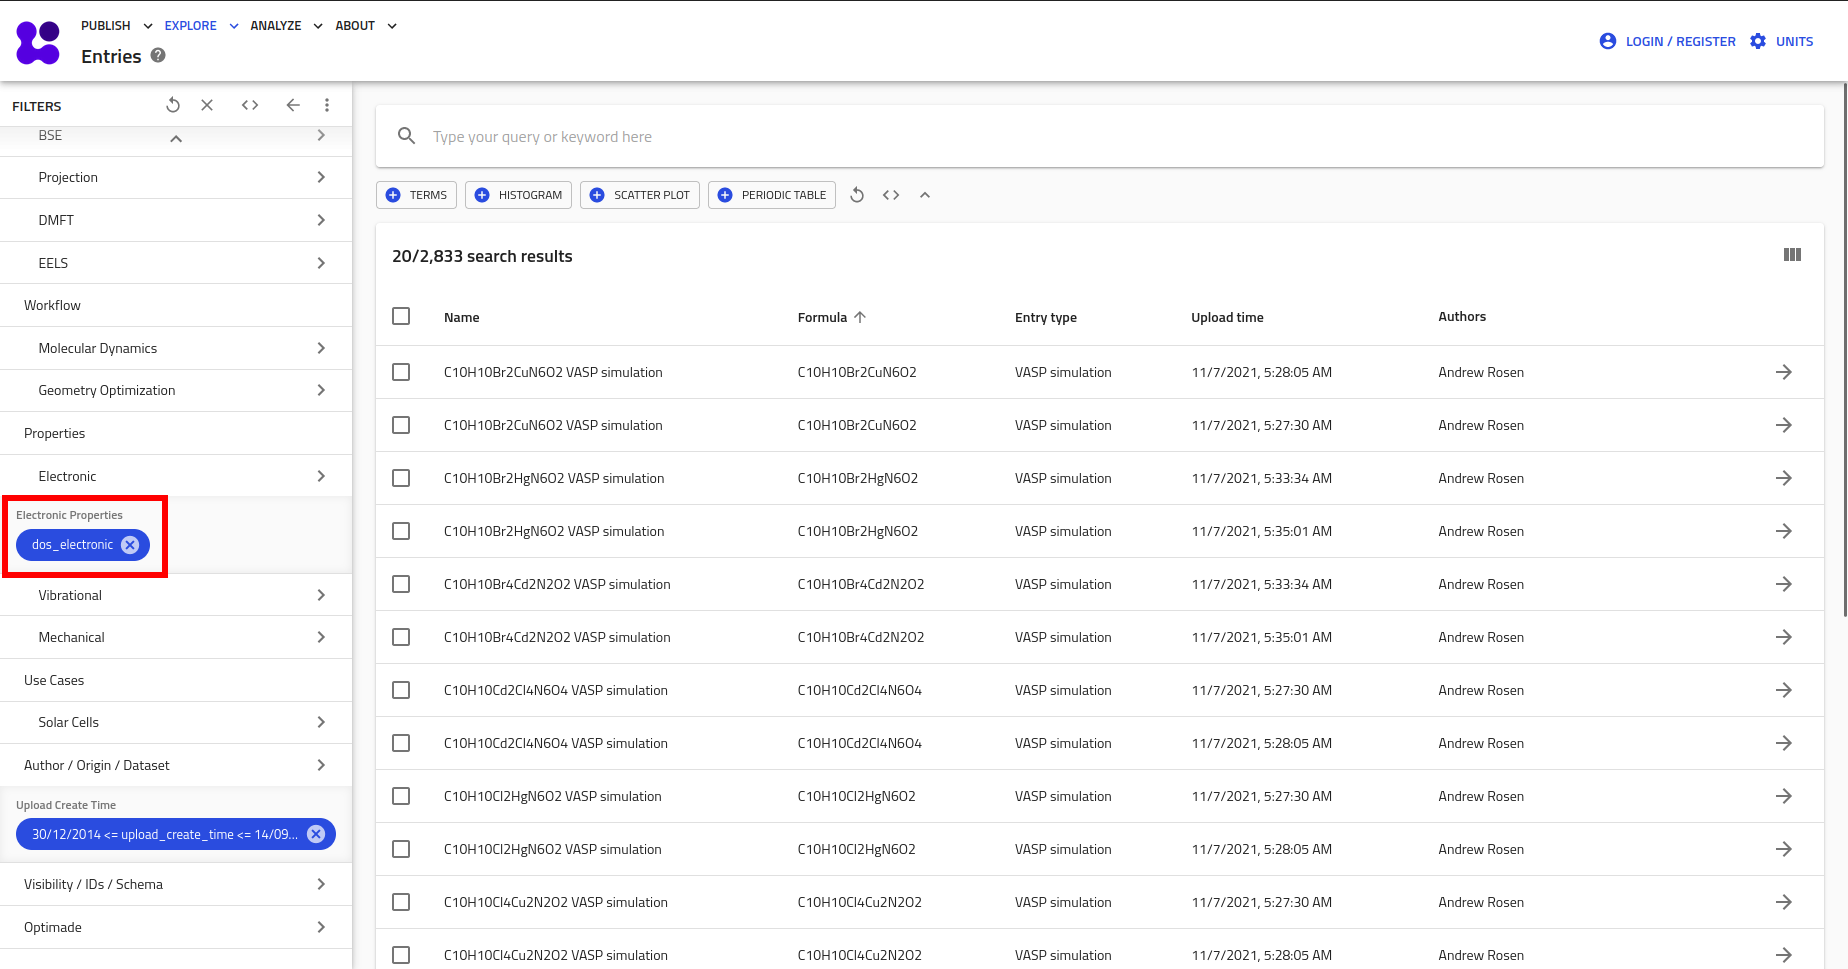
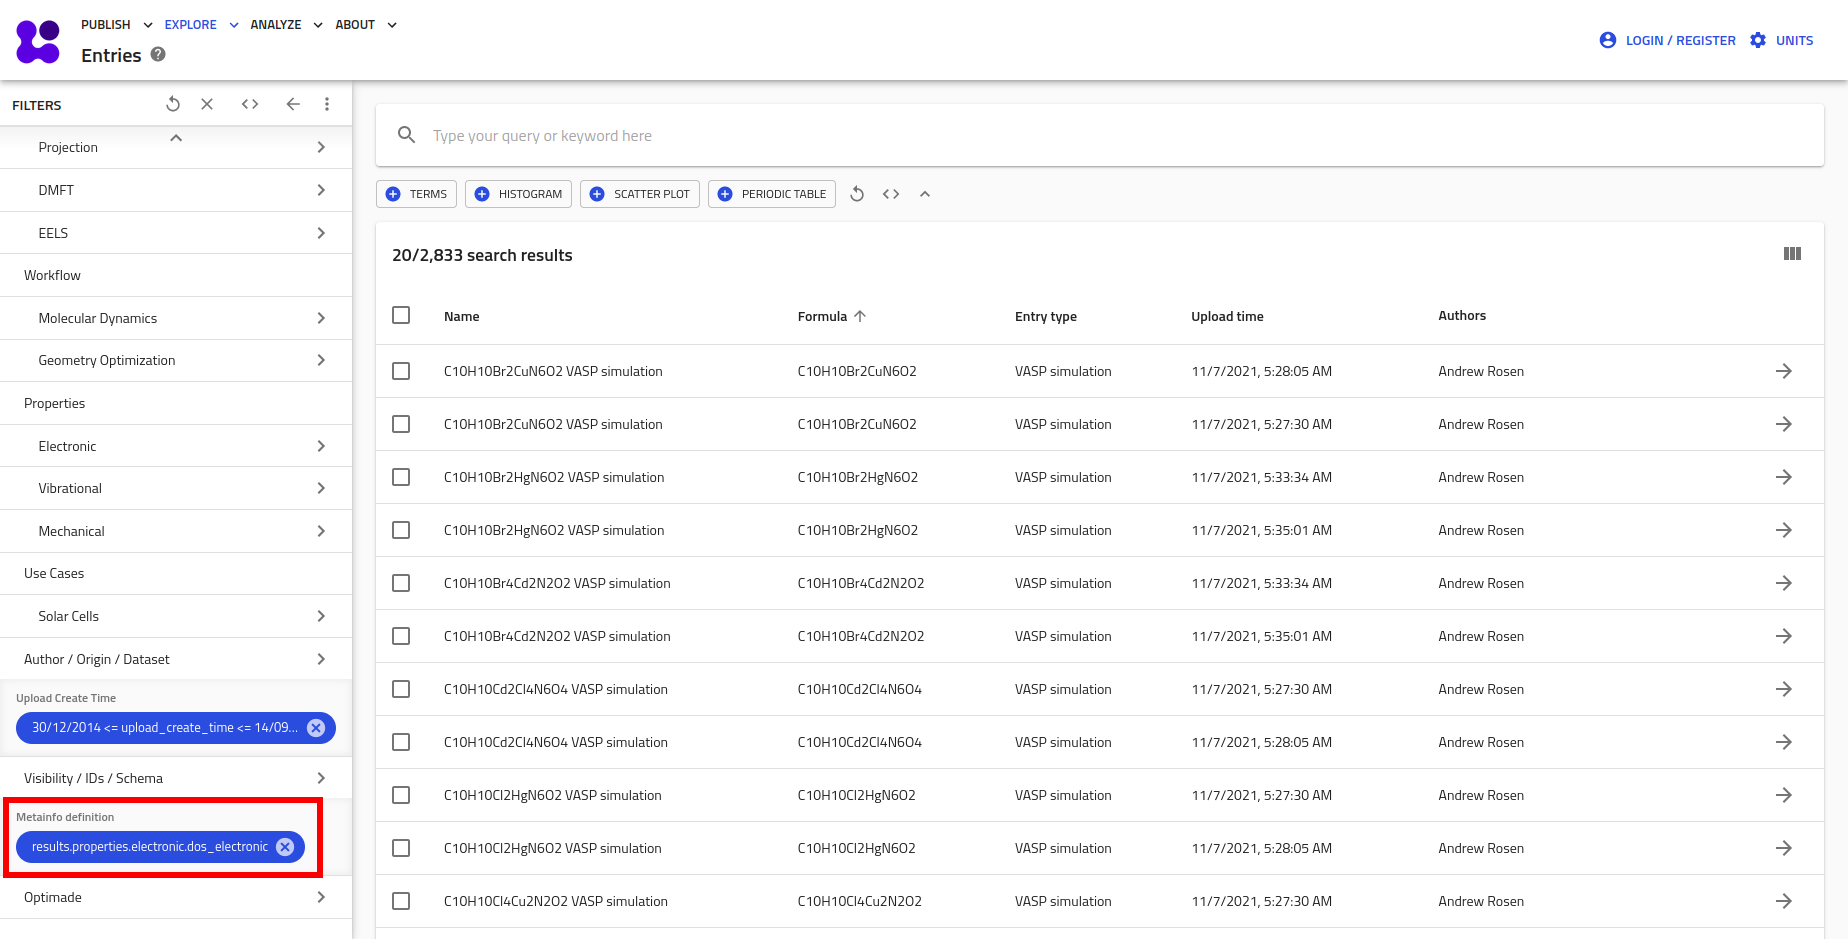
Finish update to scenario 2

diff --git a/docs/part1.md b/docs/part1.md
@@ -205,6 +205,13 @@ Let's go back to when we were selecting the relevant option under the Molecular 
         </label>
     </div>
 
+    **To save** your active filters and settings for later use, you can simply **bookmark the URL**.
+    We will also provide a _solution button_ at the end of each exercise.
+
+    <center>
+    [Final solution](){ .md-button }
+    </center>
+
 <!-- placeholder note for Joseph option A -->
 ???+ info
 
@@ -465,27 +472,38 @@ This filter stack is too restrictive.
 To work around this, remove the last filter and let us go with an alternative.
 Formulate a presence query for the density of states, commonly abbreviated as DOS [^2].
 
+[^2]: The DOS are the solid-state counterpart of the molecular orbital energies. If its sampling extends beyond the HOMO -in solid state, the highest filled energy level is called the Fermi level- it can be used to compute the band gap. This is the case in most simulations.
+
 ??? success
     Your query should be `results.properties.electronic.dos_electronic=*` and return 2.833 entries.
     There is no need to narrow it down to spin-polarized calculations.
     We also accept spin-restricted data.
 
-    [solutiuon link](https://nomad-lab.eu/prod/v1/staging/gui/search/entries?structural_type=bulk&n_elements[gte]=5&n_elements[lte]=6&xc_functional_names=HYB_GGA_XC_HSE03&xc_functional_names=HYB_GGA_XC_HSE06&upload_create_time[gte]=1419895487748&upload_create_time[lte]=1694679900000&quantities=results.properties.electronic.dos_electronic&elements=C&elements=H&elements=O&elements=N)
-
-    <div class="image-container">
-        <div class="click-zoom">
-            <label>
-                <input type="checkbox">
-                <img src="../assets/part1_explore/sc2_fullquery.png" title="The results of the final query with DOS">
-            </label>
-        </div>
-        <div class="click-zoom">
-            <label>
-                <input type="checkbox">
-                <img src="../assets/part1_explore/sc2_fullquery_selection.png" title="Selection of the search results, ready for download">
-            </label>
-        </div>
+    <div class="click-zoom">
+        <label>
+            <input type="checkbox">
+            <img src="../assets/part1_explore/sc2_fullquery.png" title="The results of the final query with DOS">
+        </label>
     </div>
+
+    From hereon, the best strategy would be to download the data you need, extract the band gap, and perform some statistical analysis first.
+    You might come across some new ideas on how to further hone your query and filter out more noise!
+    **Click the checkbox next to the column headers** in the entries list to select all entries.
+    The 3 vertical slots now change to a **download symbol**, giving you the option between the original (raw) format or the **NOMAD format** (processed).
+
+    <div class="click-zoom">
+        <label>
+            <input type="checkbox">
+            <img src="../assets/part1_explore/sc2_fullquery_selection.png" title="Selection of the search results, ready for download">
+        </label>
+    </div>
+
+    Note that the specific **analysis is not part of this tutorial**.
+    Other examples of analyzing NOMAD processed data are shown in [part IV](Tutorial-3_Extracting_Data_and_Trajectory_Analysis.md).
+
+    <center>
+    [Final solution](https://nomad-lab.eu/prod/v1/staging/gui/search/entries?structural_type=bulk&n_elements[gte]=5&n_elements[lte]=6&xc_functional_names=HYB_GGA_XC_HSE03&xc_functional_names=HYB_GGA_XC_HSE06&upload_create_time[gte]=1419895487748&upload_create_time[lte]=1694679900000&quantities=results.properties.electronic.dos_electronic&elements=C&elements=H&elements=O&elements=N){ .md-button }
+    </center>
 
 !!! warning "When stacking order matters"
     Imagine having started filtering by property instead of composition and then method.
@@ -498,12 +516,6 @@ Formulate a presence query for the density of states, commonly abbreviated as DO
     In the next scenario we will cover an even more powerful technique to aid in monitoring, _dashboards_.
 
     **Conclusion:** so-called _query engineering_ is not just limited to Large Language Models, but also applies to _sophisticated databases_.
-
-From hereon, the best strategy would be to download the data you need, extract the band gap, and perform some statistical analysis first.
-You might come across some new ideas on how to further hone your query and filter out more noise.
-**Click the checkbox next to the column headers** in the entries list to select all entries.
-The 3 vertical slots now change to a **download symbol**, given you the option between the original (raw) format or the **NOMAD format** (processed).
-To save your query for future use, simply **bookmark the url**.
 
 ### Scenario 3 - Finding Publications
 
